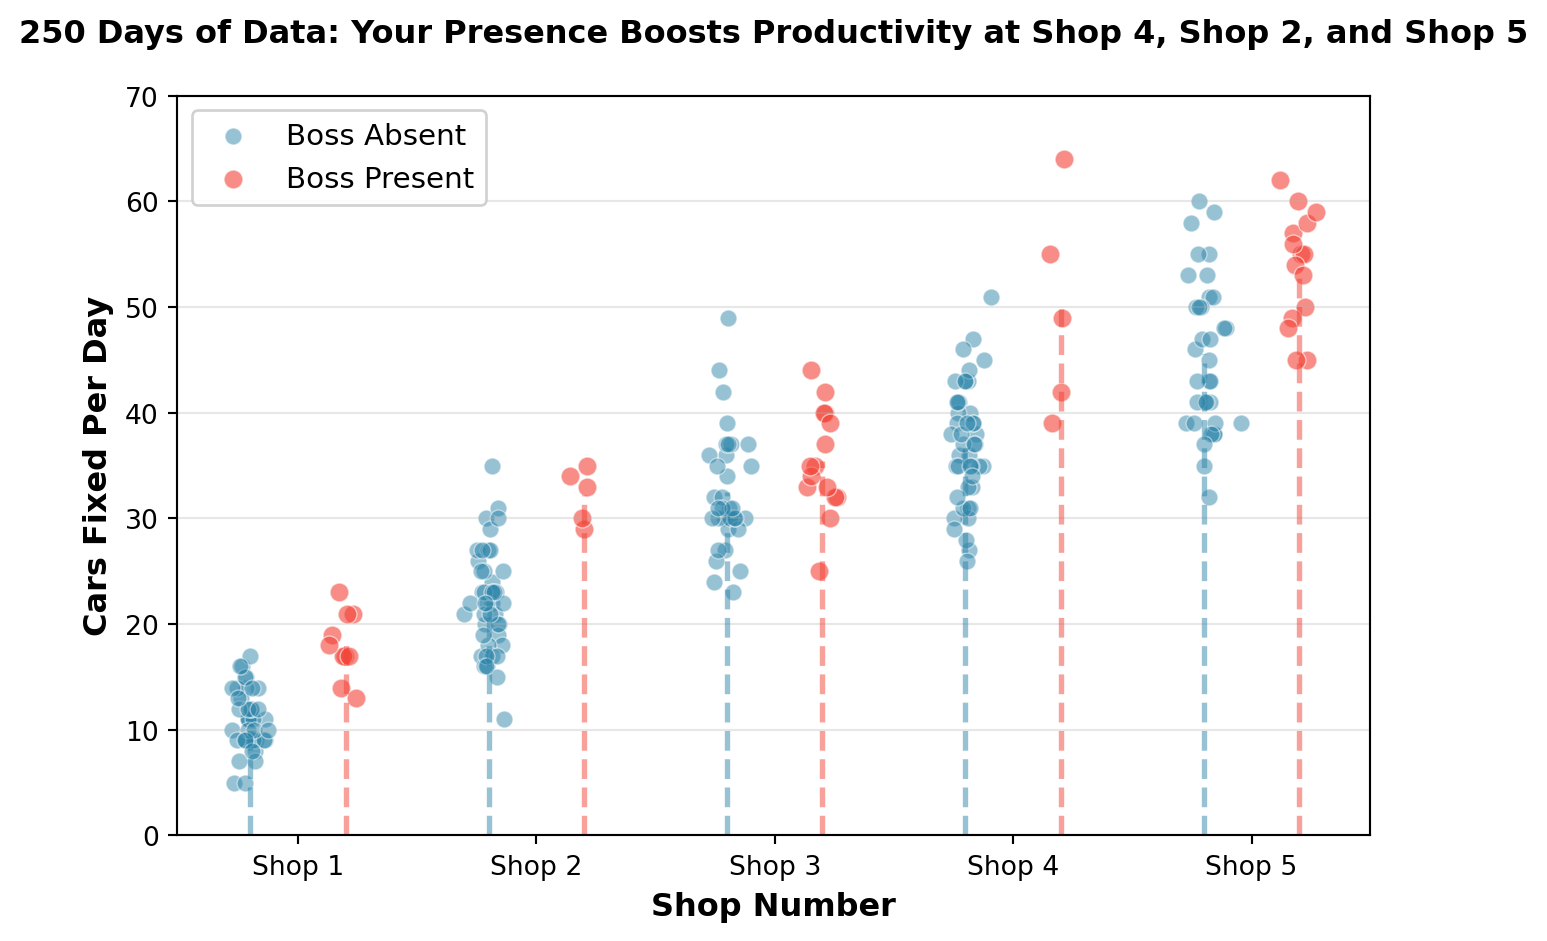
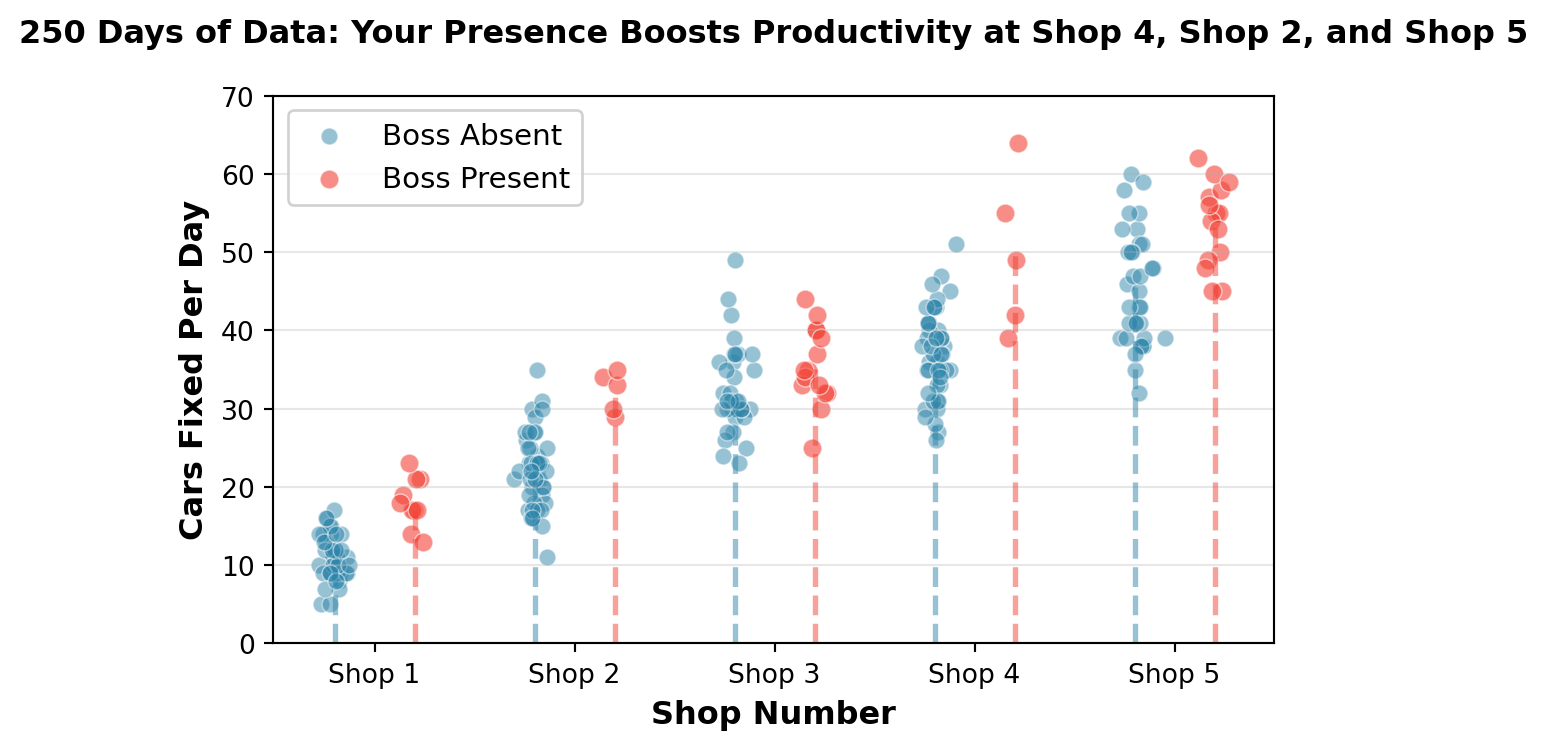
updated

diff --git a/index.html b/index.html
@@ -76,12 +76,12 @@ ul.task-list li input[type="checkbox"] {
 </section>
 <section id="what-the-data-shows" class="level2">
 <h2 class="anchored" data-anchor-id="what-the-data-shows">What the Data Shows</h2>
-<div id="cell-fig-all-data" class="cell" data-fig-height="7" data-execution_count="2">
+<div id="cell-fig-all-data" class="cell" data-fig-height="4" data-execution_count="2">
 <div class="cell-output cell-output-display">
 <div id="fig-all-data" class="quarto-float quarto-figure quarto-figure-center anchored">
 <figure class="quarto-float quarto-float-fig figure">
 <div aria-describedby="fig-all-data-caption-0ceaefa1-69ba-4598-a22c-09a6ac19f8ca">
-<img src="index_files/figure-html/fig-all-data-output-1.png" width="774" height="471" class="figure-img">
+<img src="index_files/figure-html/fig-all-data-output-1.png" width="774" height="375" class="figure-img">
 </div>
 <figcaption class="quarto-float-caption-bottom quarto-float-caption quarto-float-fig" id="fig-all-data-caption-0ceaefa1-69ba-4598-a22c-09a6ac19f8ca">
 Figure&nbsp;1: 250 days of data with boss presence &amp; absence shown with avg mean as dotted line.
@@ -94,7 +94,7 @@ Figure&nbsp;1: 250 days of data with boss presence &amp; absence shown with avg 
 <p>Here are the exact numbers:</p>
 <section id="average-improvement-when-patrick-is-present" class="level3">
 <h3 class="anchored" data-anchor-id="average-improvement-when-patrick-is-present">Average Improvement When Patrick Is Present</h3>
-<div id="0aef241b" class="cell" data-execution_count="3">
+<div id="4771c35a" class="cell" data-execution_count="3">
 <div class="cell-output cell-output-stdout">
 <pre><code> shop      diff    ci_low   ci_high
     1  6.950000  4.754983  9.145017
@@ -115,7 +115,7 @@ Figure&nbsp;1: 250 days of data with boss presence &amp; absence shown with avg 
 <p><strong>Shop 3:</strong> Only <strong>+2.9 cars per day</strong>, and this could be random chance. You might not be helping at all.</p>
 <section id="impact-visualization" class="level3">
 <h3 class="anchored" data-anchor-id="impact-visualization">Impact Visualization</h3>
-<div id="d1d6656d" class="cell" data-execution_count="4">
+<div id="ed3ff8d3" class="cell" data-execution_count="4">
 <div class="cell-output cell-output-display">
 <div>
 <figure class="figure">
@@ -142,8 +142,8 @@ Shop 3 shows a small and uncertain improvement.</p>
 <h2 class="anchored" data-anchor-id="scheduling-scenarios">Scheduling Scenarios</h2>
 <section id="weekly-extra-cars-under-different-plans" class="level3">
 <h3 class="anchored" data-anchor-id="weekly-extra-cars-under-different-plans">Weekly Extra Cars Under Different Plans</h3>
-<div id="31842522" class="cell" data-execution_count="5">
-<div class="cell-output cell-output-display" data-execution_count="29">
+<div id="a864e465" class="cell" data-execution_count="5">
+<div class="cell-output cell-output-display" data-execution_count="77">
 <div>
 
 
@@ -180,7 +180,7 @@ Shop 3 shows a small and uncertain improvement.</p>
 </section>
 <section id="scenario-visualization" class="level3">
 <h3 class="anchored" data-anchor-id="scenario-visualization">Scenario Visualization</h3>
-<div id="84d0a443" class="cell" data-execution_count="6">
+<div id="785b1191" class="cell" data-execution_count="6">
 <div class="cell-output cell-output-display">
 <div>
 <figure class="figure">
